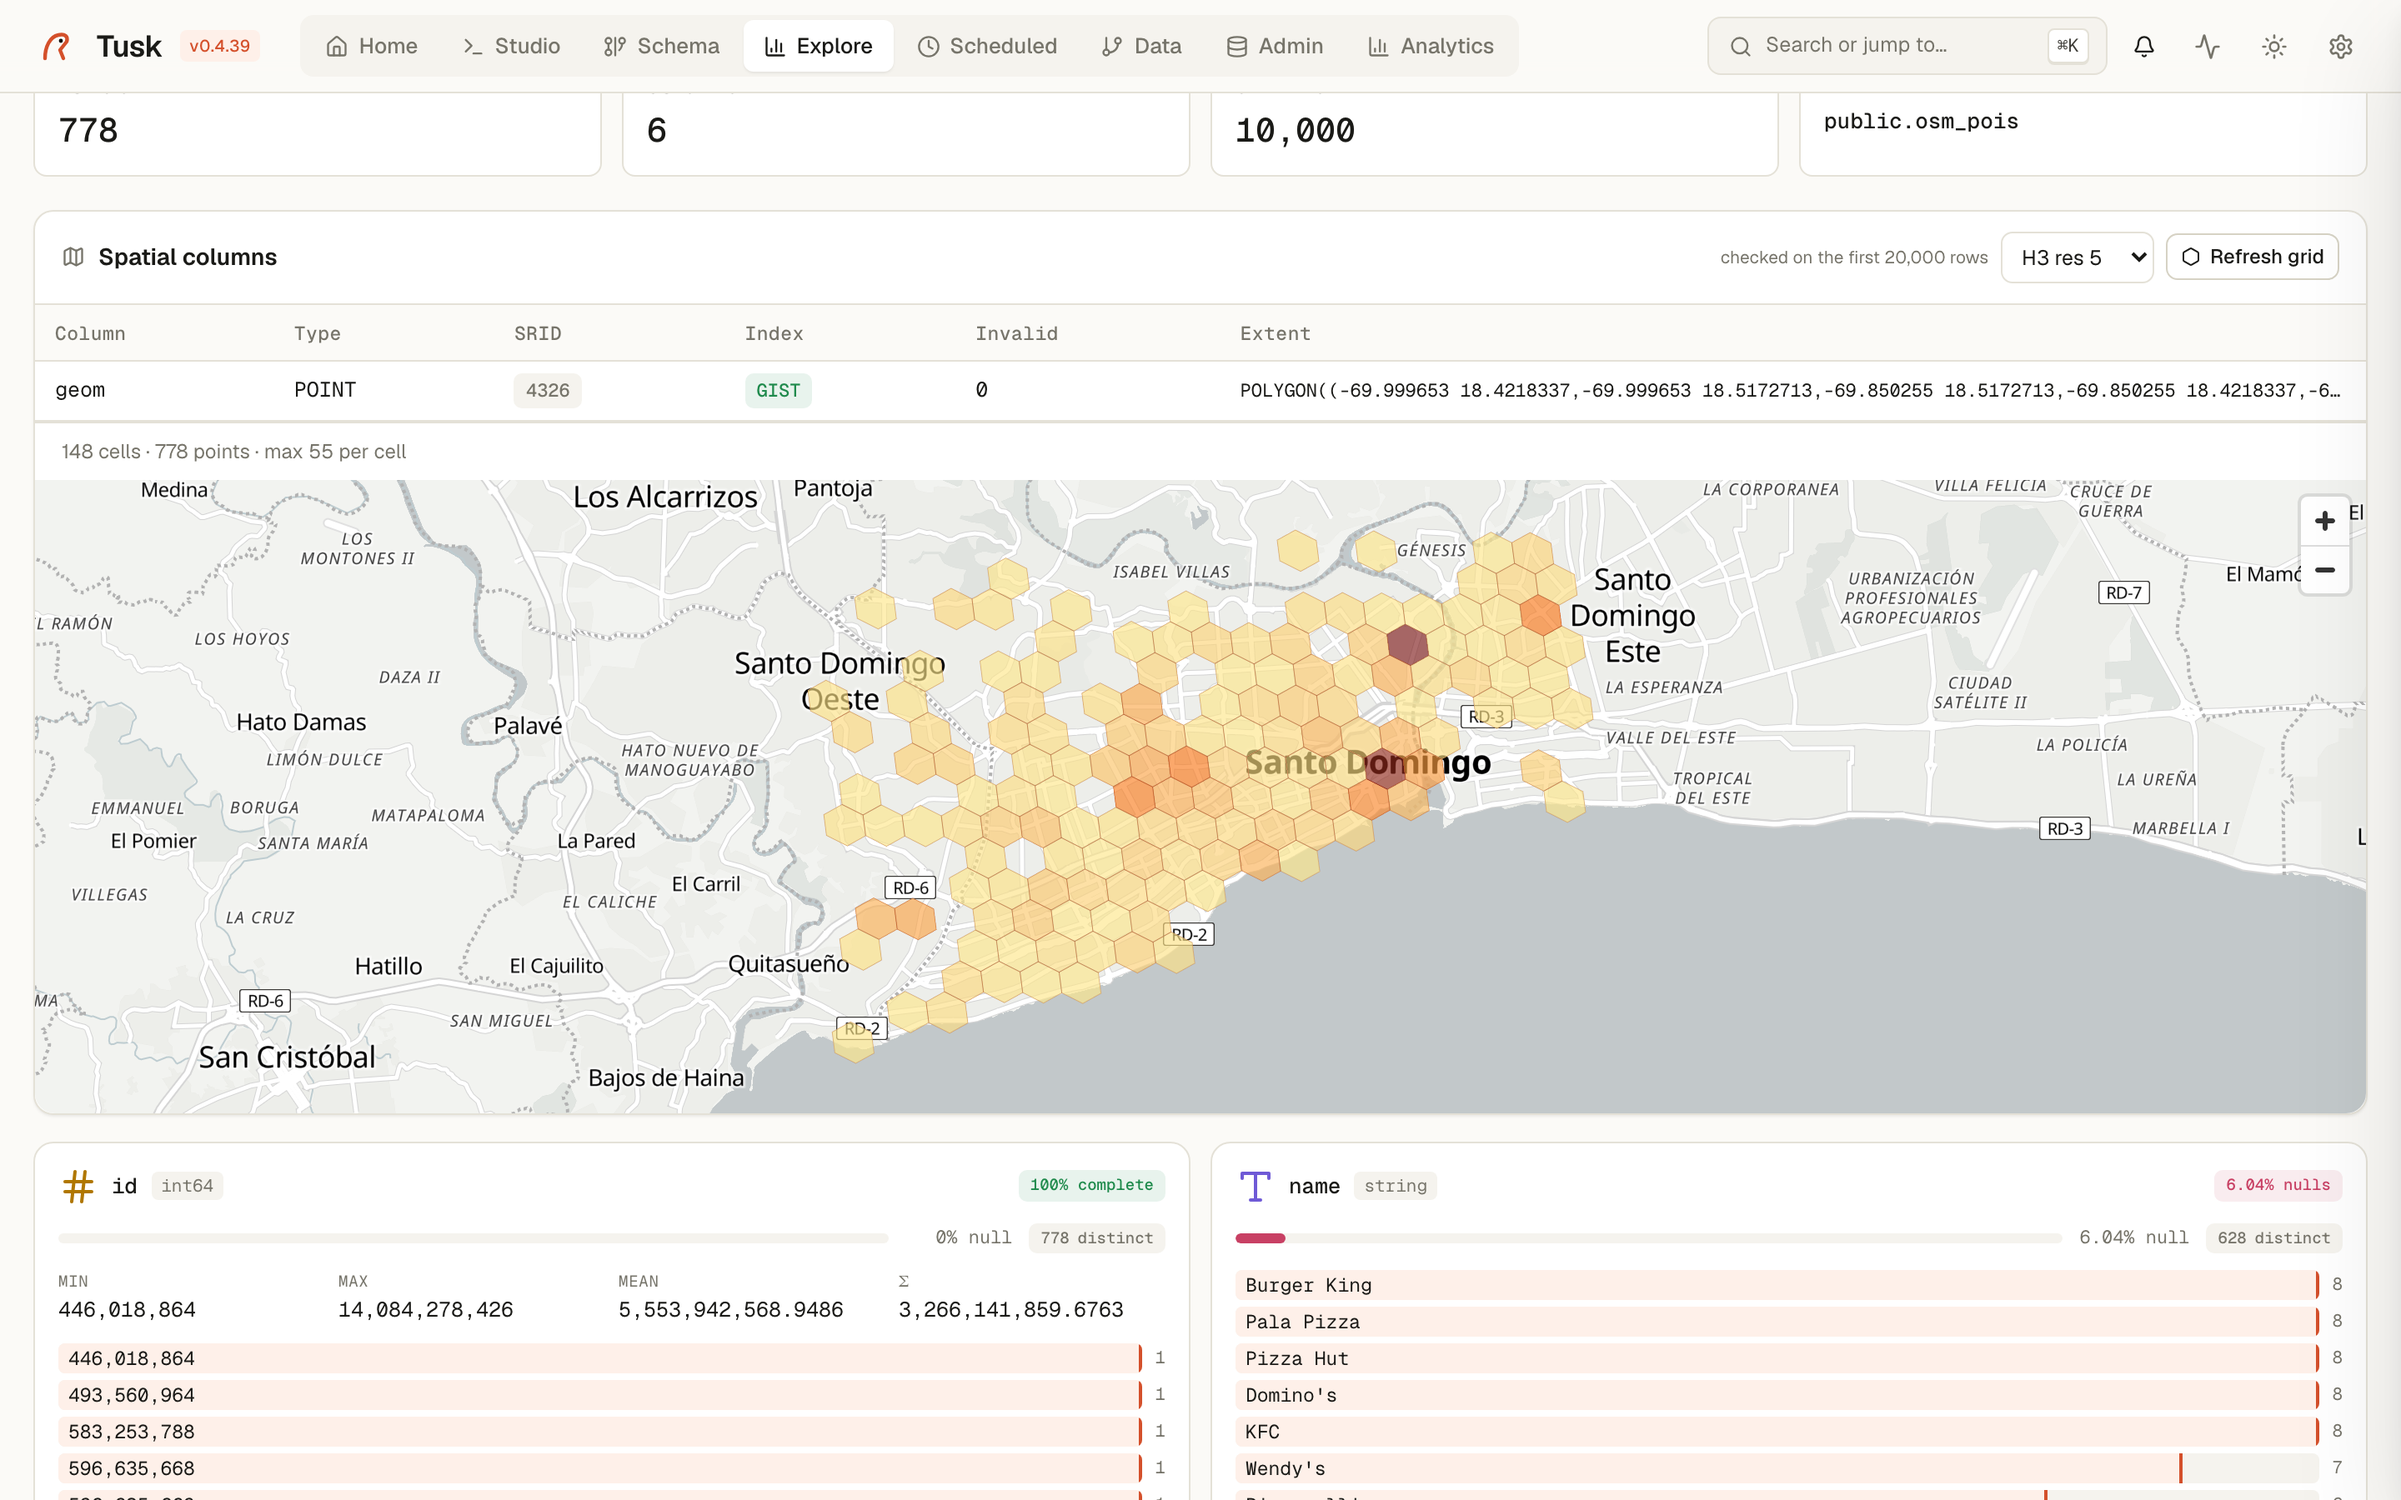
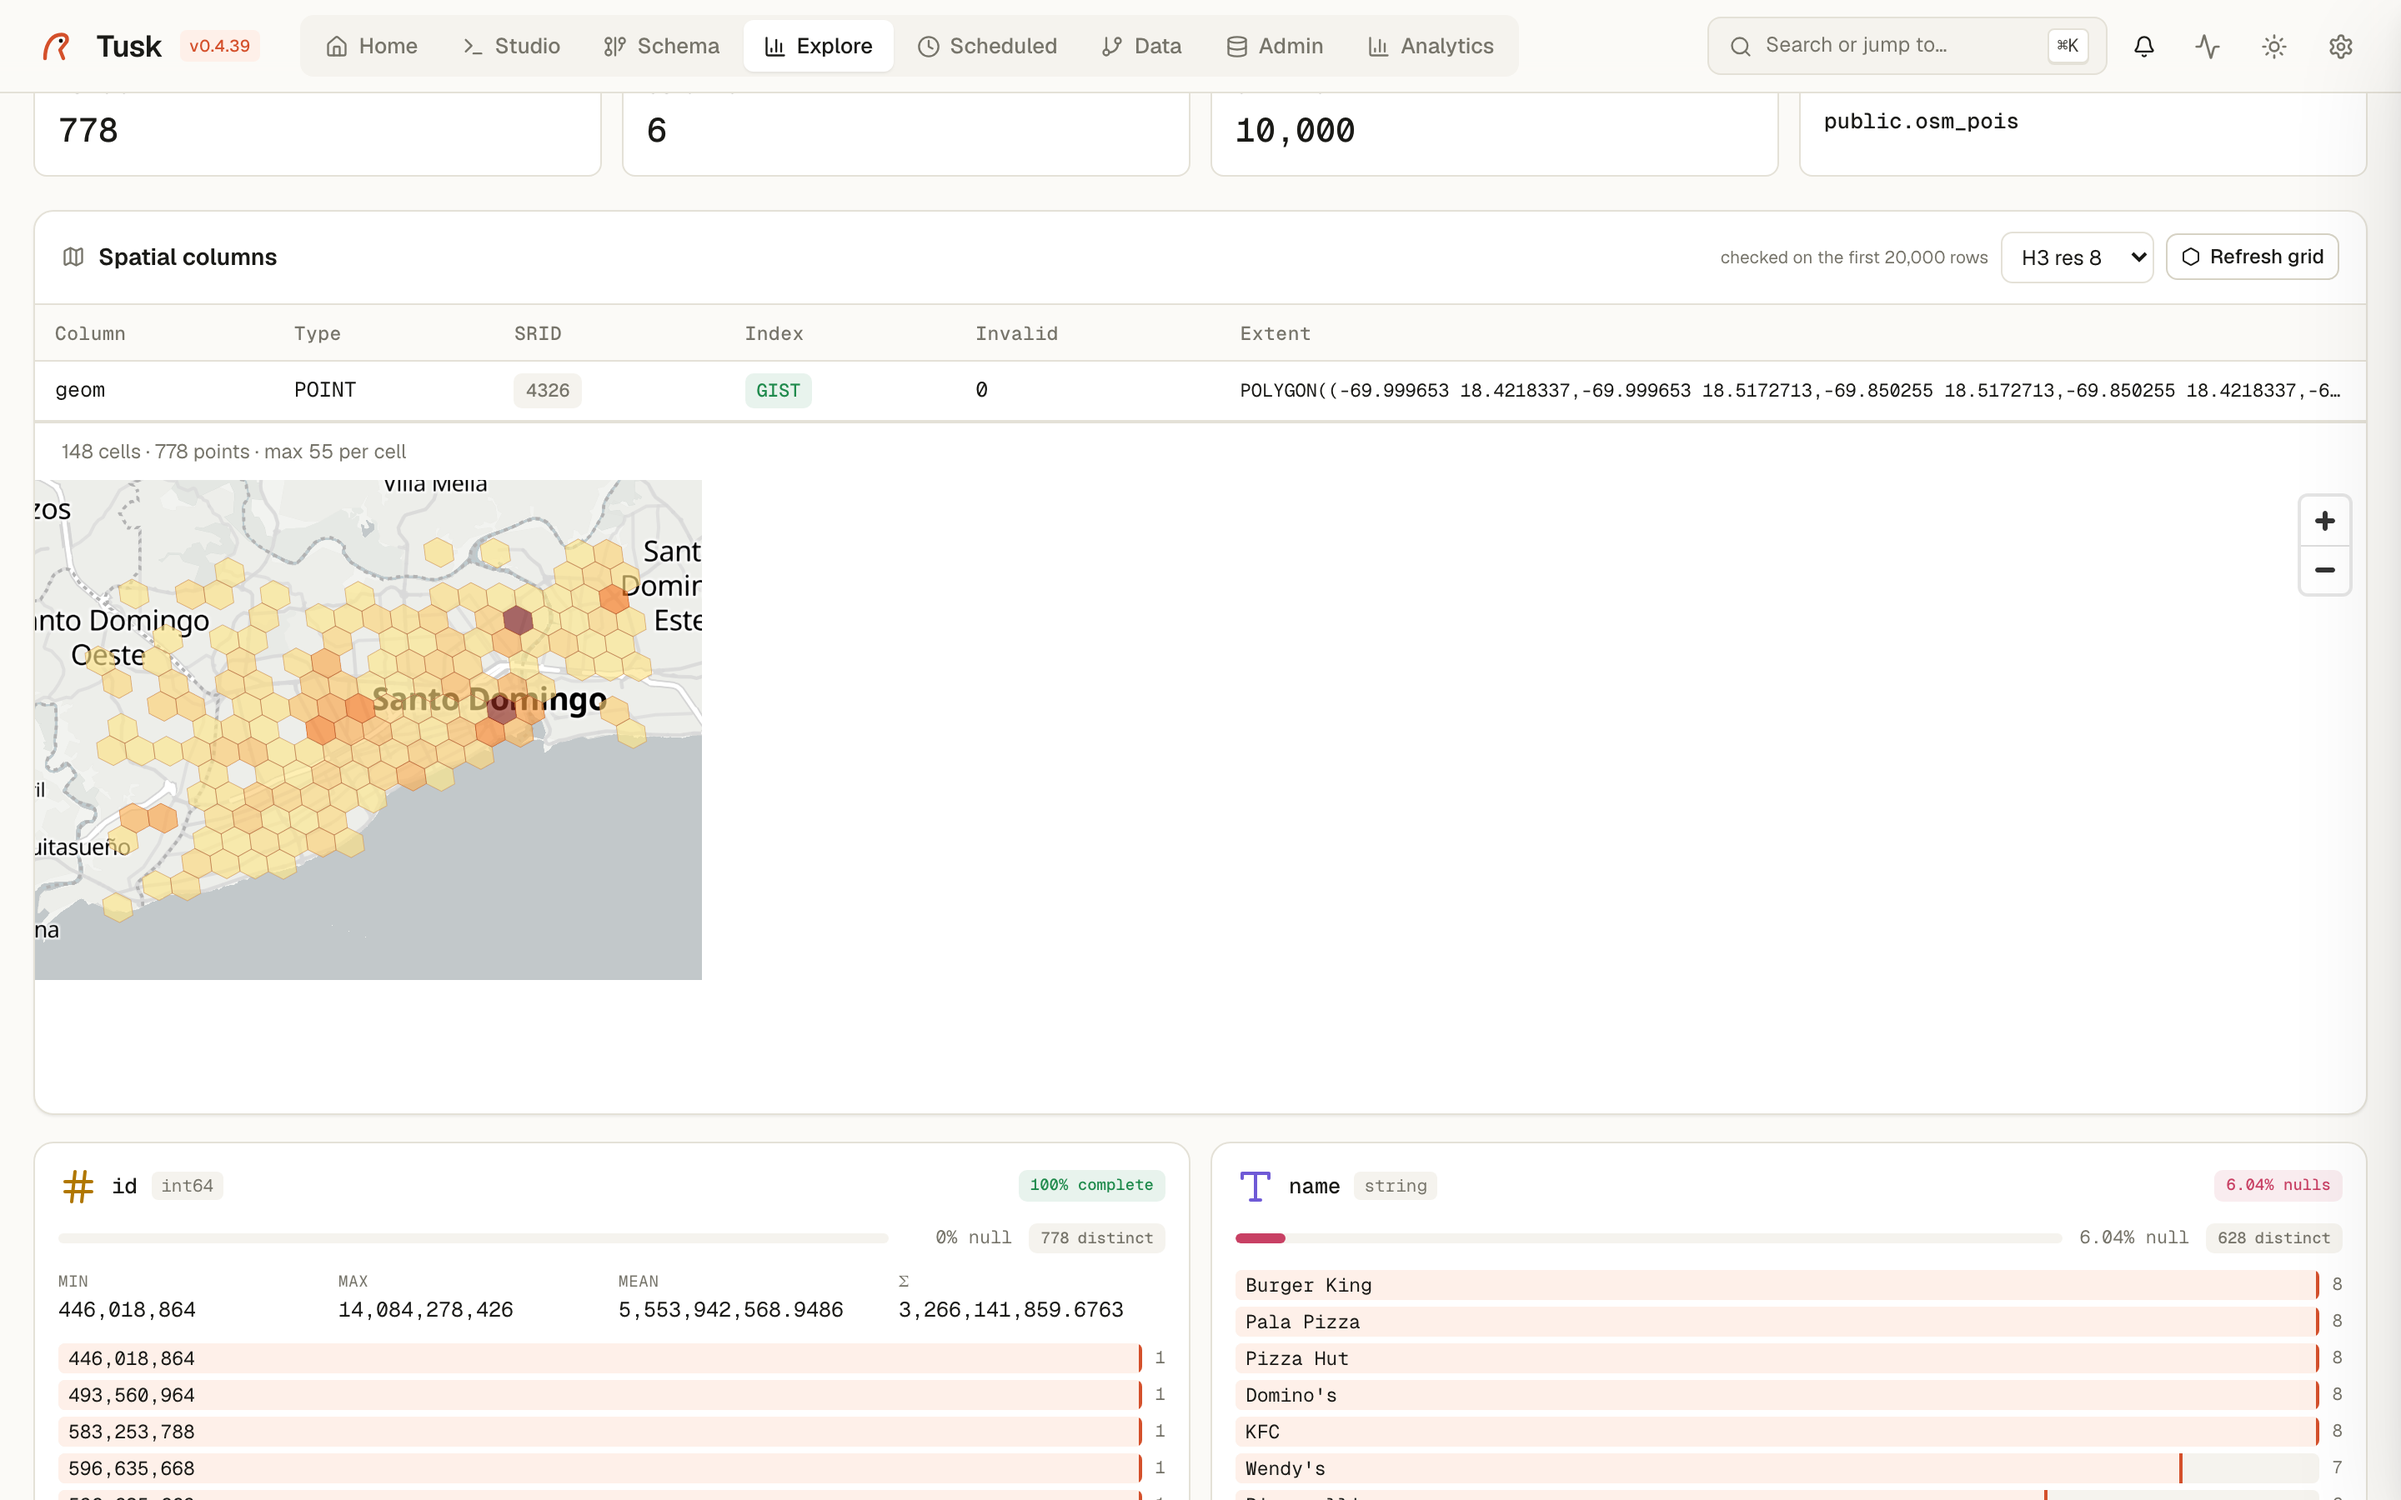
explore: H3 resolution picker reflects the selected resolution on first render
Claude-Session: https://claude.ai/code/session_01AKfkpMNLsLktua2FaJbB3V

diff --git a/src/tusk/studio/templates/explore.html b/src/tusk/studio/templates/explore.html
@@ -119,8 +119,9 @@
                 <div class="section-head"><h2><i data-lucide="map" class="w-4 h-4 text-fg-3"></i>Spatial columns</h2>
                     <div class="flex aic gap-2">
                         <span class="text-xs text-fg-3">checked on the first 20,000 rows</span>
-                        <select class="schema-prefix" x-model.number="h3Res" @change="loadH3()" title="H3 resolution (4 = ~1,770 km², 11 = ~2,150 m²)">
-                            <template x-for="r in [5,6,7,8,9,10]"><option :value="r" x-text="'H3 res ' + r"></option></template>
+                        <select class="schema-prefix" x-model.number="h3Res" @change="loadH3()" title="H3 resolution (5 ≈ 250 km² per cell, 10 ≈ 0.015 km²)">
+                            <option value="5">H3 res 5</option><option value="6">H3 res 6</option><option value="7">H3 res 7</option>
+                            <option value="8">H3 res 8</option><option value="9">H3 res 9</option><option value="10">H3 res 10</option>
                         </select>
                         <button type="button" class="btn btn-sm" @click="loadH3()" :disabled="h3Loading">
                             <i data-lucide="hexagon"></i><span x-text="h3Loading ? 'Aggregating…' : (h3 ? 'Refresh grid' : 'Density grid')"></span>

diff --git a/CHANGELOG.md b/CHANGELOG.md
@@ -2,6 +2,11 @@
 
 All notable changes to Tusk will be documented in this file.
 
+## [Unreleased]
+
+- Explore: the H3 resolution picker showed 5 while the grid used 8 on first
+  render (options were generated after the select bound its value).
+
 ## [0.4.44] - 2026-09-06 — Vector tiles from saved queries; H3 density grid
 
 - **Saved queries as vector tiles.** `GET /api/tiles/{query_id}/{z}/{x}/{y}`
